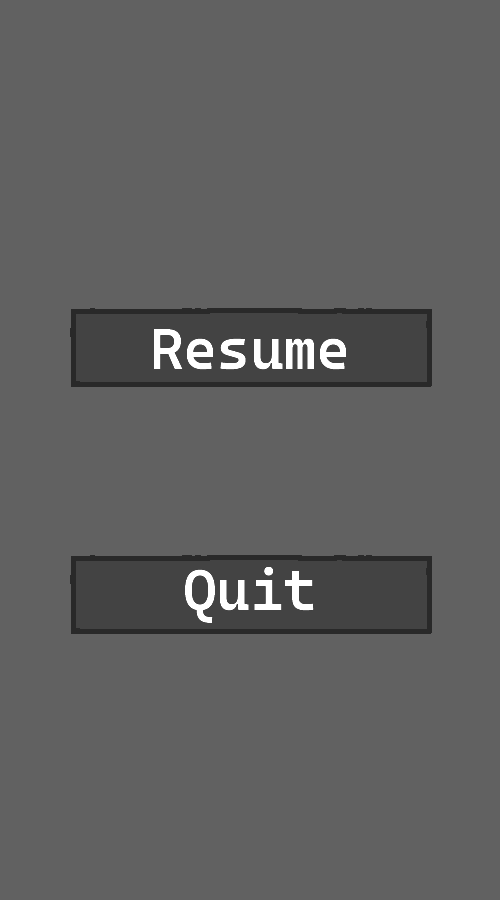
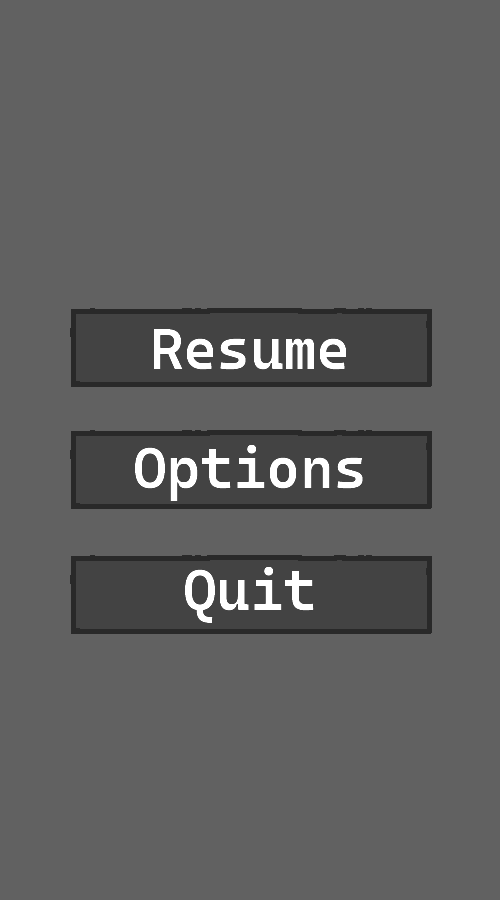
Changed pause menu sprite
Has options button now

Changed region(s): [[0.12, 0.4667, 0.87, 0.5911]]

diff --git a/src/main.cpp b/src/main.cpp
@@ -31,6 +31,7 @@ char spawnerFlag;				//Stores a flag to direct the spawner
 
 bool isGamePaused = false;		//Stores if the game is paused
 bool isGameover = false;		//Stores if the game is over
+bool isGameOptions = false;		//Stores if the options menu is open
 bool justResumed = false;		//Stores if the game was just resumed
 
 //Pointer for the player
@@ -138,6 +139,10 @@ IntRect GetCorrespondingTargetSprite(const IntRect& modifierSpriteRect)
 		return IntRect(150, 150, 50, 50);						//Target: Green Octagon
 	else if (modifierSpriteRect == IntRect(280, 210, 70, 70))	//Modifier: Blue Octagon
 		return IntRect(200, 150, 50, 50);						//Target: Green Octagon
+}
+
+void Options(sf::RenderWindow& window) {
+
 }
 
 void Restart(sf::RenderWindow& window) {
@@ -542,6 +547,9 @@ void Render(sf::RenderWindow& window)
 	}
 	else if (isGameover == true) {
 		window.draw(gameoverMenuSprite);
+	}
+	else if (isGameOptions == true) {
+		Options(window);
 	}
 	else {
 		window.draw(pauseMenuSprite);
